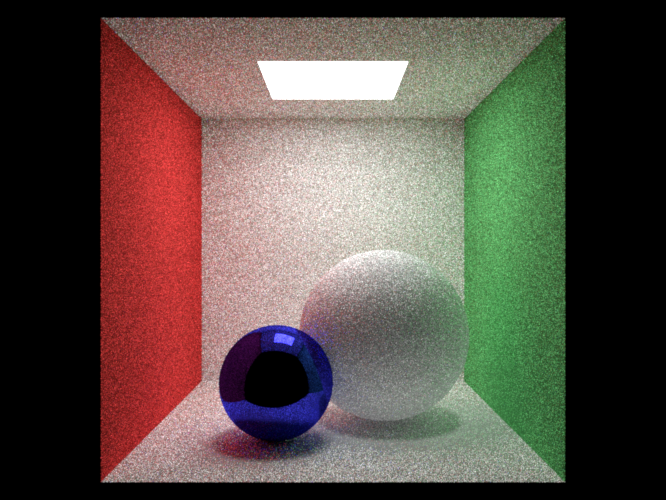
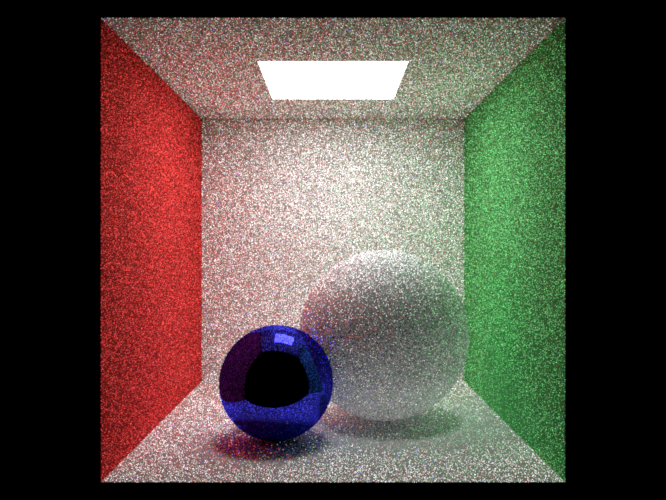
test

Changed region(s): [[0.1502, 0.03, 0.8709, 0.99]]

diff --git a/KawaiiMiao/KawaiiMiao/main.cpp b/KawaiiMiao/KawaiiMiao/main.cpp
@@ -124,7 +124,7 @@ int main()
 	std::unique_ptr<Filter> filter(new GaussianFilter(Vector2f(2.0f, 2.0f),2.0f));
 	Film::ptr film = std::make_shared<Film>(res, Bounds2f(Vector2f(0, 0), Vector2f(1, 1)),
 		std::move(filter), "../result.png");
-	Sampler::ptr sampler = std::make_shared<RandomSampler>(24);
+	Sampler::ptr sampler = std::make_shared<RandomSampler>(8);
 
 	Float fovy = 45.0f;
 	Vector3f eye(0, 5, 18), center(0, 5, 0);
